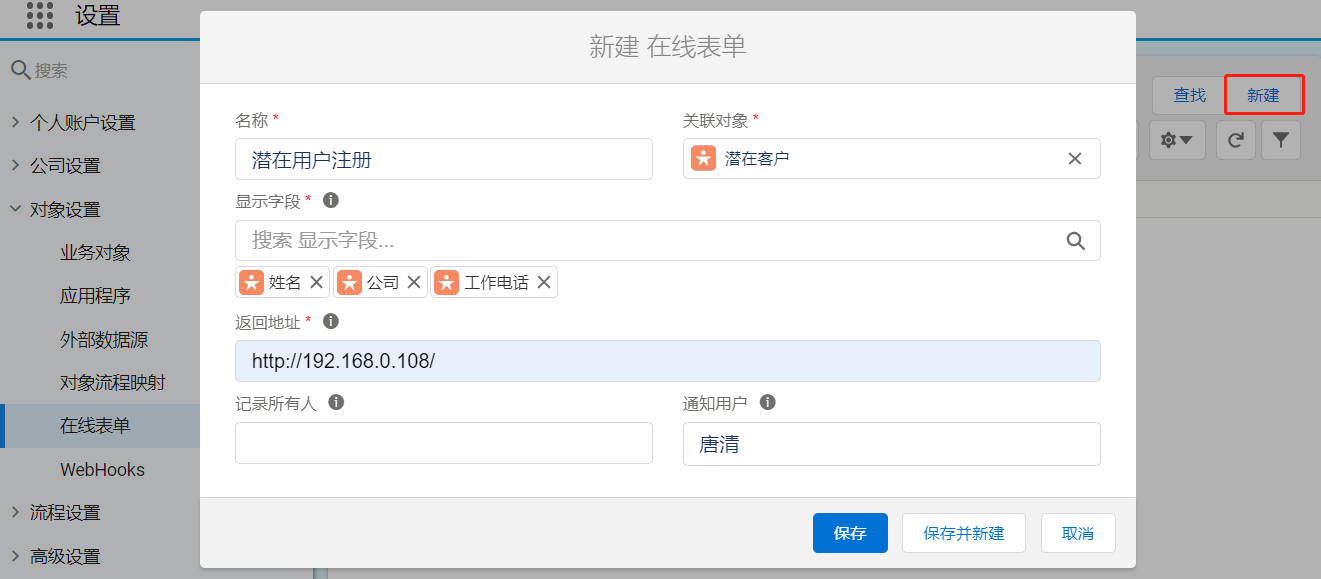
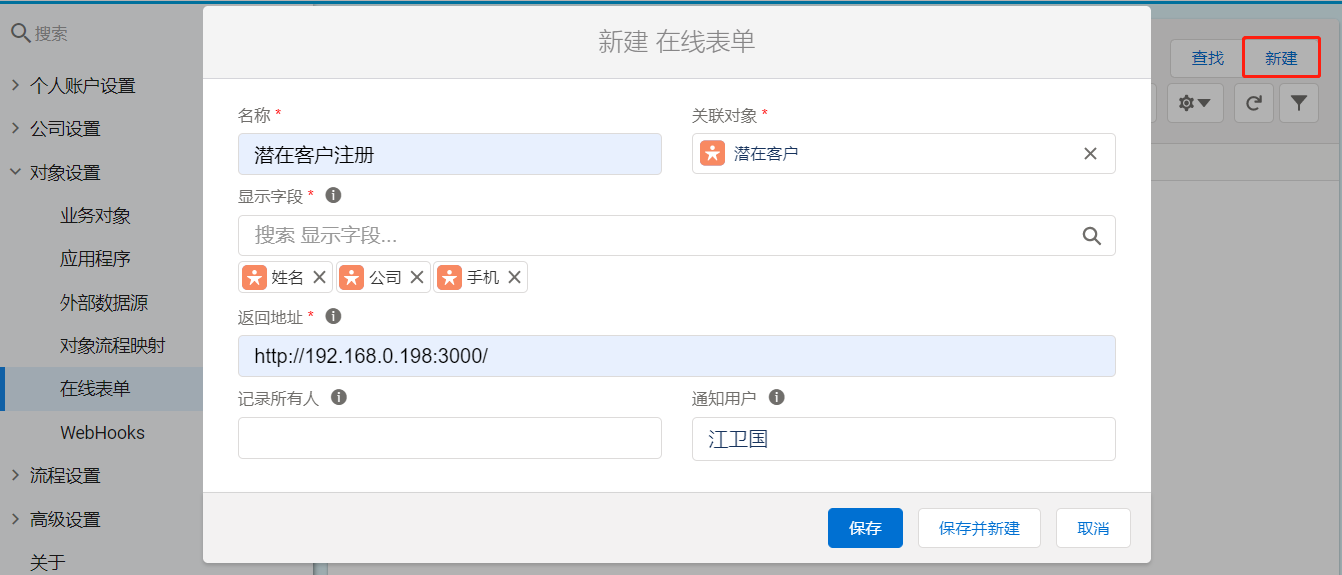
#161 调整在线表单帮助

diff --git a/docs/developer/no-code/object_web_forms.md b/docs/developer/no-code/object_web_forms.md
@@ -10,27 +10,76 @@ title: 在线表单
 
 - “设置-对象设置-在线表单”，点击右上角“新建”；
 
-![在线表单](/assets/workflow/web_forms_1.png)
-
 - 在弹窗中输入名称、选择某个业务对象，以及填写的字段，提交后返回地址等并保存。
 
 ![在线表单](/assets/workflow/web_forms_2.png)
 
+### 字段
+
+- 名称：必填，在线表单的标题。
+- 关联对象：必填，选择自定义的业务对象，不能选择系统级的对象。
+- 显示字段：必填，在线表单中显示的字段，目前只支持文本、数字、下拉框。
+- 返回地址：必填，当用户提交表单后，自动跳转到此地址。
+- 记录所有人：当用户提交表单时，自动更新对应记录的创建人以及所有人。
+- 通知用户：当用户提交表单时，自动通知相关人员。
+
 ## 复制表单HTML
 
-- 完成新建“潜在客户注册”在线表单后，点击右上角按钮“复制表单HTML”，复制系统根据设置自动生成的html代码。
+完成新建“潜在客户注册”在线表单后，点击右上角按钮“复制表单HTML”，复制系统根据设置自动生成的html代码。
 
 ![在线表单](/assets/workflow/web_forms_3.png)
 
-- 网站维护人员可以将html代码复制到网页中，比如在知识页面，新建“潜在客户注册”，在正文的代码中粘贴复制的html代码。
+网站维护人员可以将html代码复制到网页中，比如新建html网页，用代码编辑器打开粘贴复制的html代码，并调整表单样式。
 
-![在线表单](/assets/workflow/web_forms_4.png)
+```yml
+<!--  ----------------------------------------------------------------------  -->
+<!--  注意：请将以下 <META> 元素添加到您的网页 <HEAD> 中。如有必要，请修改 charset 参数以指定 HTML 页的字符集。    -->
+<!--  ----------------------------------------------------------------------  -->
+<META HTTP-EQUIV="Content-type" CONTENT="text/html; charset=UTF-8">
+<!--  ----------------------------------------------------------------------  -->
+<!--  注意：请将以下 <FORM> 元素添加到您的网页中。                                  -->
+<!--  ----------------------------------------------------------------------  -->
+<style>
+input[type="text"] {
+margin-left: 12px;
+margin-top: 12px;
+}
+input[type="submit"] {
+margin-top: 12px;
+}
+</style>
+<form action="http://192.168.0.108/api/v4/leads/web_forms" method="POST">
+    <input type=hidden name="steedos_form_id" value="Ls8afbucZWrY2TGbJ">
+    <input type=hidden name="return_url" value="http://192.168.0.198:3000/">
+
+    <label for="name">姓名</label><input id="name" name="name" type="text" /><br>
+
+    <label for="company">公司</label><input id="company" name="company" type="text" /><br>
+
+    <label for="mobilephone">手机</label><input id="mobilephone" name="mobilephone" type="text" /><br>
+
+    <input type="submit" name="submit">
+</form>
+```
 
 ## 使用在线表单
 
-- 用户填写表单后，调用专用接口，保存匿名数据到数据库中。
+用户填写表单后，调用华炎魔方接口，保存匿名数据到关联对象的数据库中。
 
 ![在线表单](/assets/workflow/web_forms_5.png)
 
-> 如果有设置 notification_users（通知用户），自动发送推送通知给对应的用户。
+## 跳转页面
 
+当用户提交表单时，页面会跳转到在线表单的“提交后返回地址”；
+
+![在线表单](/assets/workflow/web_forms_7.png)
+
+## 推送通知用户
+
+如果有设置 notification_users（通知用户），自动发送推送通知给对应的用户。
+
+![在线表单](/assets/workflow/web_forms_6.png)
+
+点击推送链接，可以看到在线表单提交的相关数据。
+
+![在线表单](/assets/workflow/web_forms_8.png)
